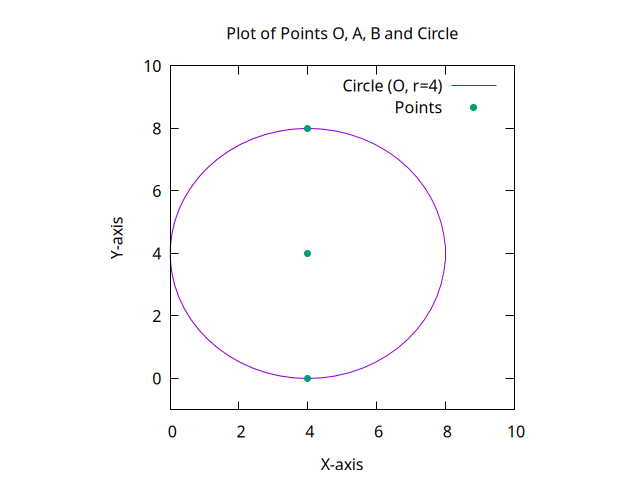
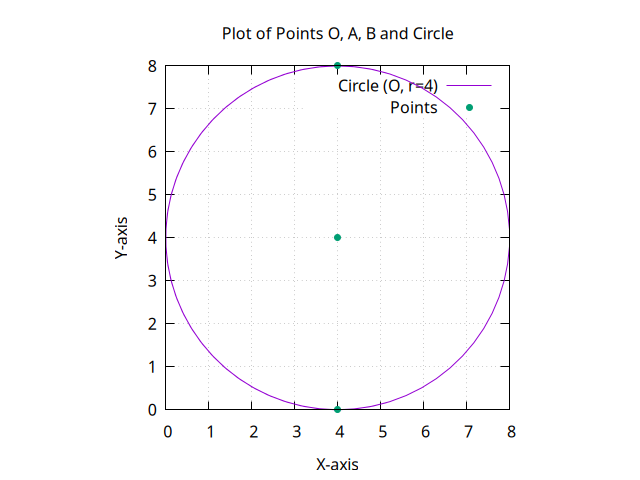
add

diff --git a/assignment2/codes/plot_points.c b/assignment2/codes/plot_points.c
@@ -19,9 +19,10 @@ void plot_points() {
     fprintf(gp, "set title 'Plot of Points O, A, B and Circle'\n");
     fprintf(gp, "set xlabel 'X-axis'\n");
     fprintf(gp, "set ylabel 'Y-axis'\n");
-    fprintf(gp, "set xrange [0:10]\n");
-    fprintf(gp, "set yrange [-1:10]\n");
+    fprintf(gp, "set xrange [0:8]\n"); // Set x range for 8x8 grid
+    fprintf(gp, "set yrange [0:8]\n"); // Set y range for 8x8 grid
     fprintf(gp, "set size ratio 1\n"); // Equal scaling for x and y
+    fprintf(gp, "set grid\n"); // Add grid lines
 
     // Set output to a PNG file
     fprintf(gp, "set terminal pngcairo\n");

diff --git a/assignment2/main.tex b/assignment2/main.tex
@@ -91,7 +91,7 @@ $\therefore$ $\vec B\myvec{x_1\\y_1}$=$\vec B\myvec{4\\8}$.
 
 \begin{figure}[h!]
     \centering
-    \includegraphics[width=\textwidth]{circle_plot.png}
+    \includegraphics[width=\textwidth]{plot.png}
 	\caption{Circle with center $\myvec{4\\4}$ and diameter points A$\myvec{4\\0}$ and B$\myvec{4\\8}$.}
     \label{fig:circle_plot}
 \end{figure}
